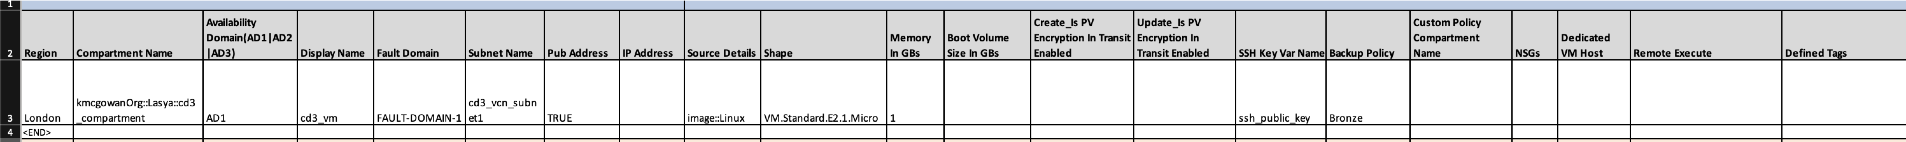
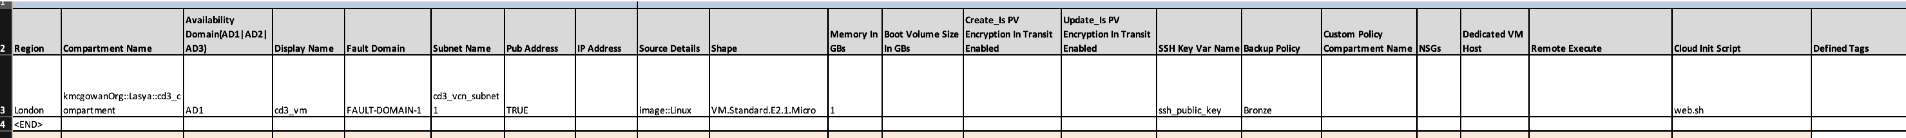
cloud init addition

Changed region(s): [[0.0, 0.0, 1.0, 1.0]]

diff --git a/cd3-automation-toolkit/deploy-compute/deploy-compute.md b/cd3-automation-toolkit/deploy-compute/deploy-compute.md
@@ -4,17 +4,20 @@
 
 This is a continuation of the lab 2 : [Setup the CD3 toolkit](/cd3-automation-toolkit/Setup%20the%20Toolkit/setup_the_toolkit.md)
 
-As a recap, in the previous lab we cloned the cd3 repo, built an image, executed the CD3 container and connected it to the OCI tenancy. We were able to see the customer specific files getting generated in the outdirectory.
+As a recap, in the previous lab we cloned the cd3 repo, built an image, executed the CD3 container and connected it to the OCI tenancy. 
 
-Estimated lab time: 30 minutes
 
 ### Objectives
 
 In this lab, you will:
 
 - Add required parameter values for Compartments, VCN, Subnets, Compute, Block Volume, ATP to the Excel file.
-- Execute the setUpOCI.py script to generate terraform files.
-- Execute Terraform commands from the respective service folders. 
+- Execute the *setUpOCI.py* script to generate terraform files.
+- Execute terraform commands from the respective service folders. 
+
+<br>
+
+Estimated lab time: 30 minutes
 
 ### Prerequisites
 
@@ -33,7 +36,7 @@ In this lab, you will:
 
 3. __Add details for Compartment:__
 
-  - Open the "Compartments" tab and add your compartment data with below image as example.
+  - Open the **"Compartments"** tab and add your compartment data with below image as example.
 
    - If the parent compartment is not under root directly, then provide it in the below format:
 
@@ -46,11 +49,11 @@ Refer to the below image as example:
 
 4. __Add details for the VCN:__
 
-  - Navigate to "VCNs" sheet and create a VCN with the following details:
+  - Navigate to **"VCNs"** sheet and create a VCN with the following details:
 
   - Compartment name format: *parent_compartment1::parent_compartment2::child_compartmemt*
 
-    VCN: cd3_vcn
+    Name: cd3_vcn
 
     CIDR: 10.110.0.0/24
 
@@ -60,7 +63,7 @@ Refer to the below image as example:
 
 5. __Add DHCP details for cd3_vcn__
 
-   - Navigate to "DHCP" sheet and create DHCP Options with the following details:
+   - Navigate to **"DHCP"** sheet and create DHCP Options with the following details:
 
    - VCN: cd3_vcn
 
@@ -76,12 +79,12 @@ Refer to the below image as example:
 
 6. __Add details for creating Subnets in cd3_vcn__
 
-   - Navigate to "SubnetsVLANs" sheet and create subnets with the following details:
+   - Navigate to **"SubnetsVLANs"** sheet and create subnets with the following details:
 
 
-   - subnet1: public subnet: CIDR- 10.110.0.0/26 : Route table: RT1, Security list: SL1, Route to IGW.
+   - Name: subnet1, public subnet, CIDR: 10.110.0.0/26, Route table: RT1, Security list: SL1, Route to IGW.
 
-     subnet2: private subnet: CIDR- 10.110.0.64/26 : Route table: RT2, Security list: SL2, Route to NGW.
+     Name: subnet2, private subnet, CIDR: 10.110.0.64/26, Route table: RT2, Security list: SL2, Route to NGW.
 
   Refer to the below image as example:
 
@@ -89,12 +92,12 @@ Refer to the below image as example:
 
 7. __Add details for Route rules__
 
-  - Navigate to "RouteRulesinOCI" sheet and create Route rules with following details:
+  - Navigate to **"RouteRulesinOCI"** sheet and create Route rules with following details:
 
 
-  - RT1: Target-igw_destination (fixed value for Internet Gateway target), Destination type: CIDR, Destination CIDR: 0.0.0.0/0
+  - Name: RT1, Target:cd3_vcn_igw, Destination type: CIDR, Destination CIDR: 0.0.0.0/0
 
-    RT2: Target-ngw_destination(fixed value for NAT Gateway target), Destination type: CIDR, Destination CIDR: 0.0.0.0/0
+    Name: RT2, Target:cd3_vcn_ngw, Destination type: CIDR, Destination CIDR: 0.0.0.0/0
 
   Refer to the below image as example:
 
@@ -102,12 +105,12 @@ Refer to the below image as example:
 
 8. __Add details for Security rules__
 
-   - Navigate to "SecRulesOCI" sheet and create Security rules with following details:
+   - Navigate to **"SecRulesOCI"** sheet and create Security rules with following details:
 
 
-   - SL1: STATEFUL: INGRESS: TCP: Source- 0.0.0.0/0, Destination port - 22
+   - Name: SL1, STATEFUL, type: INGRESS, protocol:TCP, Source- 0.0.0.0/0, Destination port - 22
 
-     SL2: STATEFUL: INGRESS: TCP: Source- 0.0.0.0/0, Destination port - 1521, 1522
+     Name: SL2, STATEFUL, type: INGRESS, protocol:TCP, Source- 0.0.0.0/0, Destination port - 1521, 1522
 
   Refer to the below image as example:
 
@@ -116,21 +119,40 @@ Refer to the below image as example:
 9. __Add details for Compute VM__
 
 
-   - Navigate to "Instances" sheet and create a Compute Instance with below details:
+   - Navigate to **"Instances"** sheet and create a Compute Instance with below details:
 
+   - We will provision an **always-free** Instance in this lab.
 
-   - cd3_vm: subnet-cd3_vcn_subnet1 (vcn_subnet): image::Linux , VM.Standard.E3.Flex::2, ssh_public_key
+   - Name: cd3_vm, subnet: cd3_vcn_subnet1 (format: *vcnname_subnetname*), Source details- image::Linux , shape: VM.Standard.E3.Flex::2, ssh_public_key to ssh into the instance,
 
 > Note: To add SSH keys to the vm, place them in **variables.tf** under *ssh_public_key* variable.
+
+ __Creating a simple web application__
+
+   - Create a column **"Cloud Init Script"** in the **Instances** sheet before the *defined tags* column and enter its value as "web.sh" in the same row with cd3_vm instance details.
+   - Create a bash file "web.sh" under /cd3user/tenancies/<customer_name>/terraform_files/<region_name>/compute/scripts.
+   - Copy below sample script to enable Apache on the instance.
+
+          #!/bin/bash
+          sudo yum install -y httpd
+          sudo systemctl enable httpd
+          sudo systemctl restart httpd
+          sudo systemctl stop firewalld
+          sudo systemctl disable firewalld
+          sudo iptables -A INPUT -p tcp --dport 80 -j ACCEPT
+          sudo iptables-save
+
+
 
   Refer to the below image as example:
   ![vm](/cd3-automation-toolkit/deploy-compute/images/vm.png)
 
+
 10. __Add details for Block Volumes__
 
-   - Navigate to "Block Volumes" sheet and create a Block Volume with below details:
+   - Navigate to **"Block Volumes"** sheet and create a Block Volume with below details:
 
-   - cd3_blockvolume: 20 VPUs per GB, 150GB size, attached to cd3_vm using paravirtualized mode.
+   - cd3_blockvolume: 20 VPUs per GB, 150GB size, attached to *cd3_vm* using paravirtualized mode.
 
   Refer to the below image as example:
 
@@ -138,8 +160,9 @@ Refer to the below image as example:
 
 11. __Add details for ATP__
 
-   - Navigate to "ADB" sheet and create an ATP service with the below details:
+   - Navigate to **"ADB"** sheet and create an ATP service with the below details:
 
+   - We will provision an **always-free** ATP for the lab.
 
    - cd3_ATP: subnet-cd3_vcn_subnet2, DB Name: adb123db, CPU Core Count-10, Data Storage Size in TB -100, LICENSE_INCLUDED.
 
